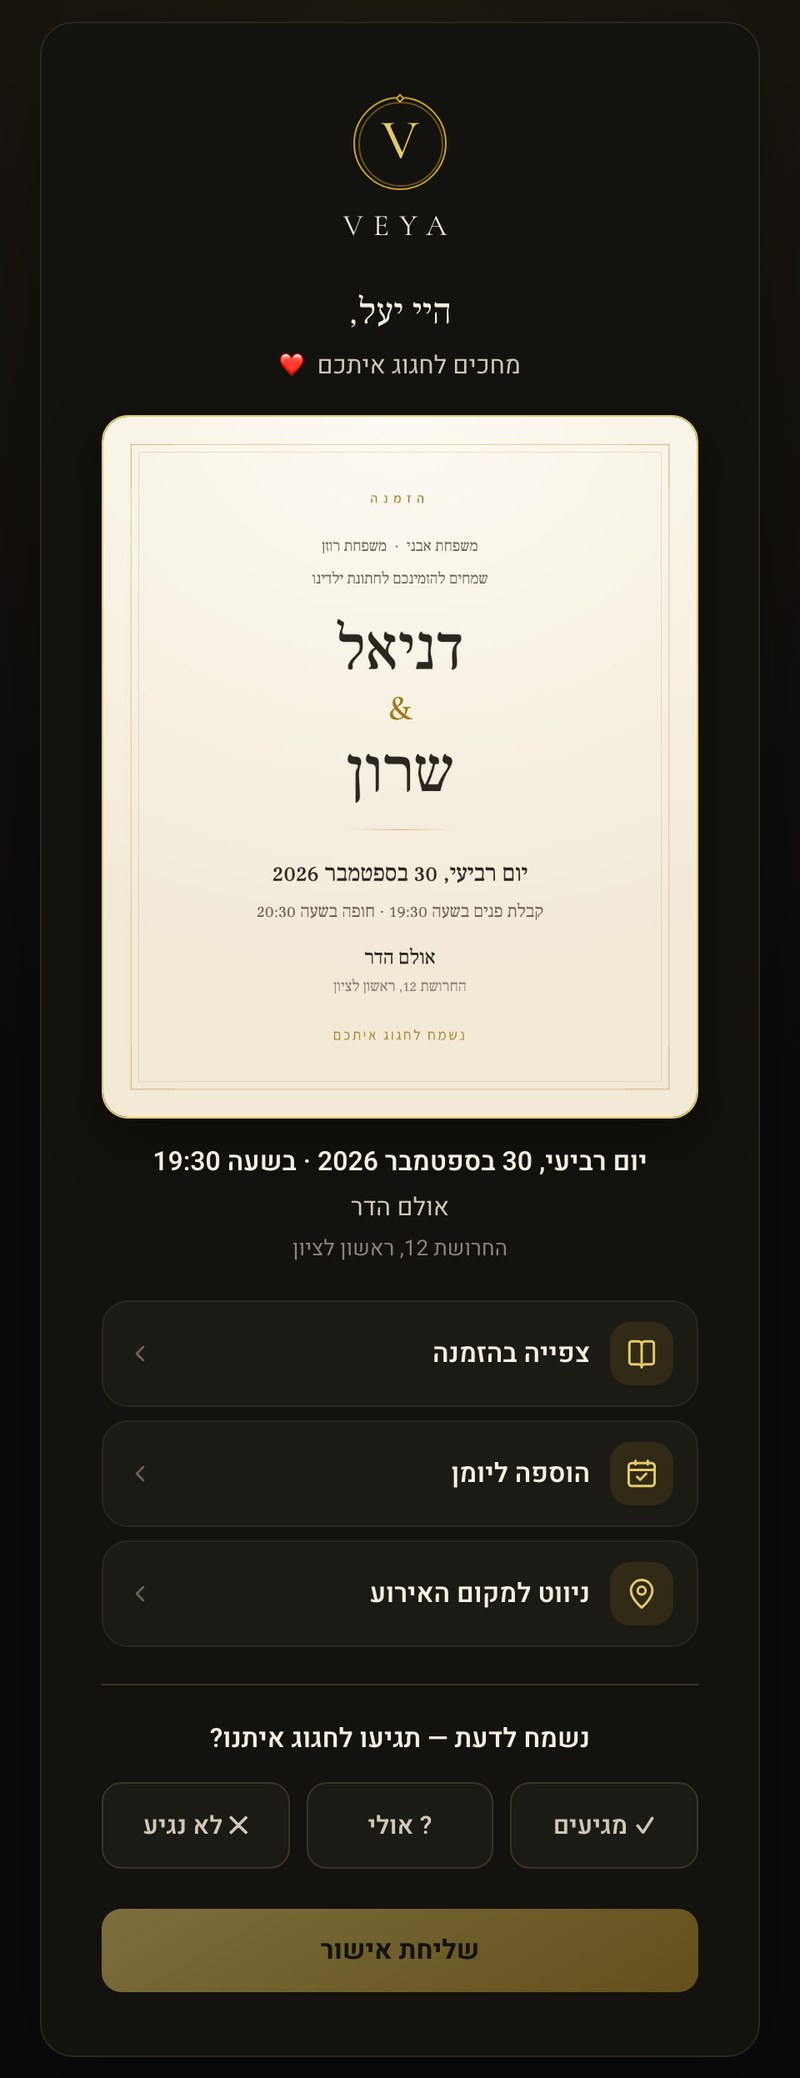
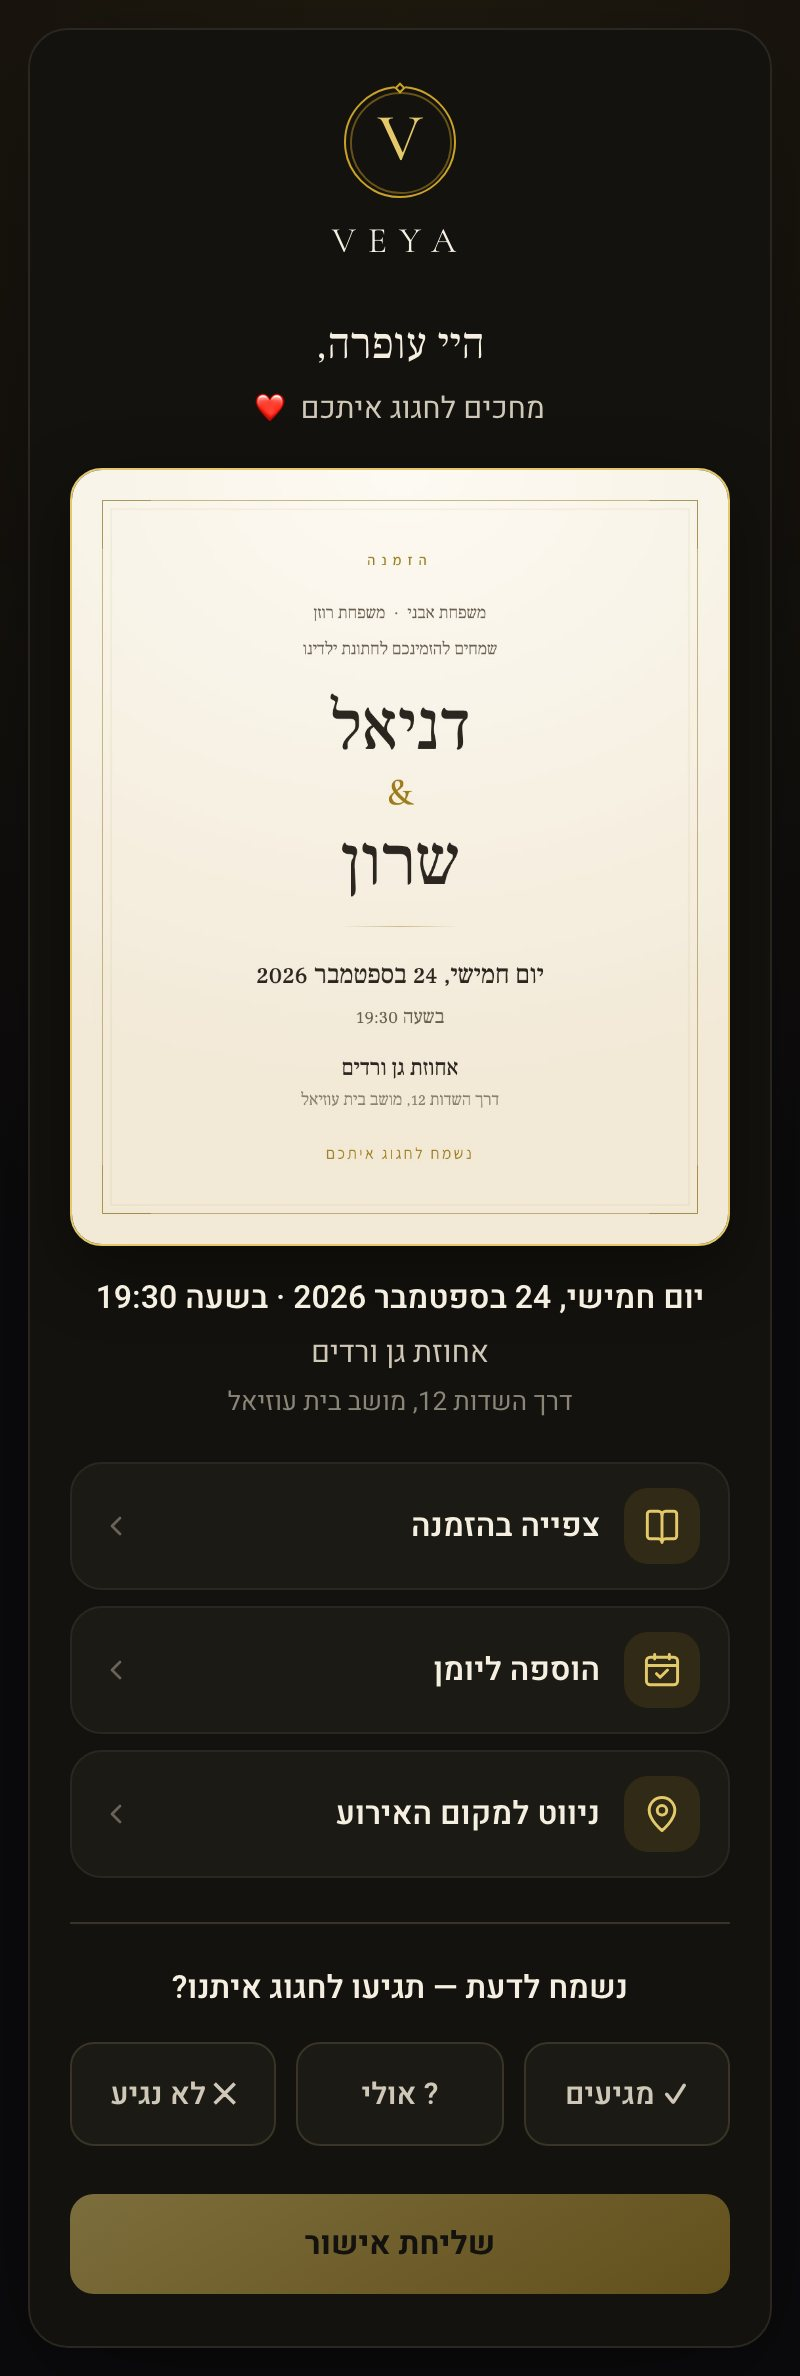
landing: אזור האורחים — הדף האמיתי של מוזמן באירוע ההדגמה, טלפון ודפדפן בקומפוזיציה
הצילום הקודם הציג תאריך ואולם שלא של אירוע ההדגמה. עכשיו: /confirm של
מוזמנת מהרשימה, בטלפון מלפנים ובדפדפן קטן מאחור. גם תמונת ההזמנה של
אירוע ההדגמה עודכנה (במסד המקומי) לתאריך ולאולם של האירוע, ולכן
צילומי תמונת המצב צולמו מחדש.

Changed region(s): [[0.0312, 0.0308, 0.9688, 0.77], [0.0625, 0.8316, 0.9375, 0.9856], [0.7812, 0.616, 0.875, 0.77]]

diff --git a/frontend/index.html b/frontend/index.html
@@ -1093,11 +1093,26 @@
       }
       /* הצילום הוא עמוד שלם (ארוך ממסך), ולכן הטלפון מציג אותו במלואו
          (mk-phone--fit) על רקע העמוד עצמו — כהה, כמו אזור האורחים. */
-      .gh-shot .mk-phone {
-        --ph-w: min(320px, 78vw); --ph-screen: #18130d; --ph-ink: #f4efe6; margin-inline: auto;
+      /* קומפוזיציה: הטלפון מלפנים, ואותו אזור אורחים בדפדפן קטן מאחוריו,
+         כל אחד בזווית עדינה הפוכה. RTL: הטלפון בצד ההתחלה. */
+      .gh-comp {
+        --ph-w: clamp(150px, 16vw, 206px);
+        position: relative; max-width: 540px; margin-inline: auto;
+        padding-bottom: calc(var(--ph-w) * 1.28); perspective: 2000px;
       }
+      .gh-browser { width: 88%; margin-inline-start: auto; transform: rotateY(-8deg) rotateX(2deg); transform-origin: 70% 50%; }
+      .gh-comp .gh-phone {
+        position: absolute; z-index: 2; bottom: 0; inset-inline-start: 3%;
+        transform: rotateY(7deg) rotate(-1.5deg);
+      }
+      .gh-shot .mk-phone { --ph-screen: #18130d; --ph-ink: #f4efe6; }
       .gh-shot .mk-phone-screen { background: linear-gradient(180deg, #18130d 0%, #141110 18%, #0b0b0b 50%, #0a0a0c 100%); }
       .gh-cta { display: flex; }
+      @media (max-width: 600px) {
+        .gh-comp { --ph-w: clamp(140px, 40vw, 168px); padding-bottom: calc(var(--ph-w) * 1.62); }
+        .gh-browser { width: 80%; }
+        .gh-comp .gh-phone { inset-inline-start: 0; }
+      }
       .gh-cta .btn { min-height: 48px; }
       @media (min-width: 861px) {
         .gh-grid {
@@ -1110,7 +1125,6 @@
         .gh-cta { grid-area: cta; align-self: start; }
         /* בדסקטופ הטלפון נמדד לפי גובה המסך ולא לפי רוחב — כך הוא נשאר
            שלם בלי שהמשתמש יצטרך לגלול באמצע התמונה. */
-        .gh-shot .mk-phone { --ph-w: min(380px, calc(min(82vh, 980px) * 0.478)); }
       }
       .rsvp-band .why-punch,
       .commit .why-punch,
@@ -2530,6 +2544,7 @@
     
     
     
+    
     </style>
     <script>
       /* צילום שנקטע בטעינה: ניסיון חוזר אחד, והמסגרת נשארת. מוגדר ב-head כדי
@@ -2801,7 +2816,20 @@
               <p class="gh-punch">האורחים יודעים מה לעשות. אתם יכולים לשחרר.</p>
             </div>
             <div class="gh-shot reveal d1">
-              <div class="mk-phone mk-phone--fit">
+              <div class="gh-comp">
+              <!-- אותו אזור אורחים, פתוח בדפדפן — מאחור וקטן יותר -->
+              <div class="mk-browser gh-browser" aria-hidden="true">
+              <div class="mk-browser-bar" aria-hidden="true">
+                <span class="mk-browser-lights"><i></i><i></i><i></i></span>
+                <span class="mk-browser-nav"><svg viewBox="0 0 16 16" fill="none" stroke="currentColor" stroke-width="1.9" stroke-linecap="round" stroke-linejoin="round"><path d="M10 3 5 8l5 5" /></svg><svg viewBox="0 0 16 16" fill="none" stroke="currentColor" stroke-width="1.9" stroke-linecap="round" stroke-linejoin="round"><path d="m6 3 5 5-5 5" /></svg></span>
+                <span class="mk-browser-url"><svg viewBox="0 0 10 12" fill="currentColor"><path d="M2 5V3.6a3 3 0 0 1 6 0V5h.4c.6 0 1.1.5 1.1 1.1v4.8c0 .6-.5 1.1-1.1 1.1H1.6C1 12 .5 11.5.5 10.9V6.1C.5 5.5 1 5 1.6 5H2Zm1.3 0h3.4V3.6a1.7 1.7 0 0 0-3.4 0V5Z" /></svg><span>veyaguest.co.il/app</span></span>
+                <span class="mk-browser-tools"><svg viewBox="0 0 16 16" fill="none" stroke="currentColor" stroke-width="1.6" stroke-linecap="round" stroke-linejoin="round"><path d="M8 10V1.8M5.2 4.4 8 1.6l2.8 2.8M5.5 6.5H4a1 1 0 0 0-1 1v6a1 1 0 0 0 1 1h8a1 1 0 0 0 1-1v-6a1 1 0 0 0-1-1h-1.5" /></svg><svg viewBox="0 0 16 16" fill="none" stroke="currentColor" stroke-width="1.7" stroke-linecap="round"><path d="M8 2.5v11M2.5 8h11" /></svg><svg viewBox="0 0 16 16" fill="none" stroke="currentColor" stroke-width="1.5" stroke-linejoin="round"><rect x="2" y="4.5" width="9.5" height="9.5" rx="1.6" /><path d="M4.5 2h8a1.5 1.5 0 0 1 1.5 1.5v8" /></svg></span>
+              </div>
+              <div class="mk-browser-view">
+                <img src="/product/guest-hub-desktop.jpg" alt="" width="1600" height="1025" loading="lazy" decoding="async" onerror="veyaRetryImage(this)" />
+              </div>
+              </div>
+              <div class="mk-phone mk-phone--fit gh-phone">
                 <span class="mk-phone-keys"></span>
                 <span class="mk-phone-island"></span>
                 <span class="mk-phone-status">
@@ -2818,13 +2846,14 @@
               <img
                 class="mk-phone-screen"
                 src="/product/guest-hub.jpg"
-                alt="אזור האורחים של VEYA כפי שמוזמן רואה אותו בטלפון: תמונת ההזמנה, תאריך ושעה, כתובת האולם, צפייה בהזמנה, הוספה ליומן, ניווט למקום האירוע וכפתורי אישור ההגעה"
+                alt="אזור האורחים של VEYA כפי שמוזמן רואה אותו בטלפון (אירוע ההדגמה): תמונת ההזמנה, תאריך ושעה, כתובת האולם, צפייה בהזמנה, הוספה ליומן, ניווט למקום האירוע וכפתורי אישור ההגעה"
                 width="800"
-                height="2078"
+                height="2376"
                 loading="lazy"
                 decoding="async"
                 onerror="veyaRetryImage(this)"
               />
+              </div>
               </div>
             </div>
             <div class="gh-cta reveal d2">
